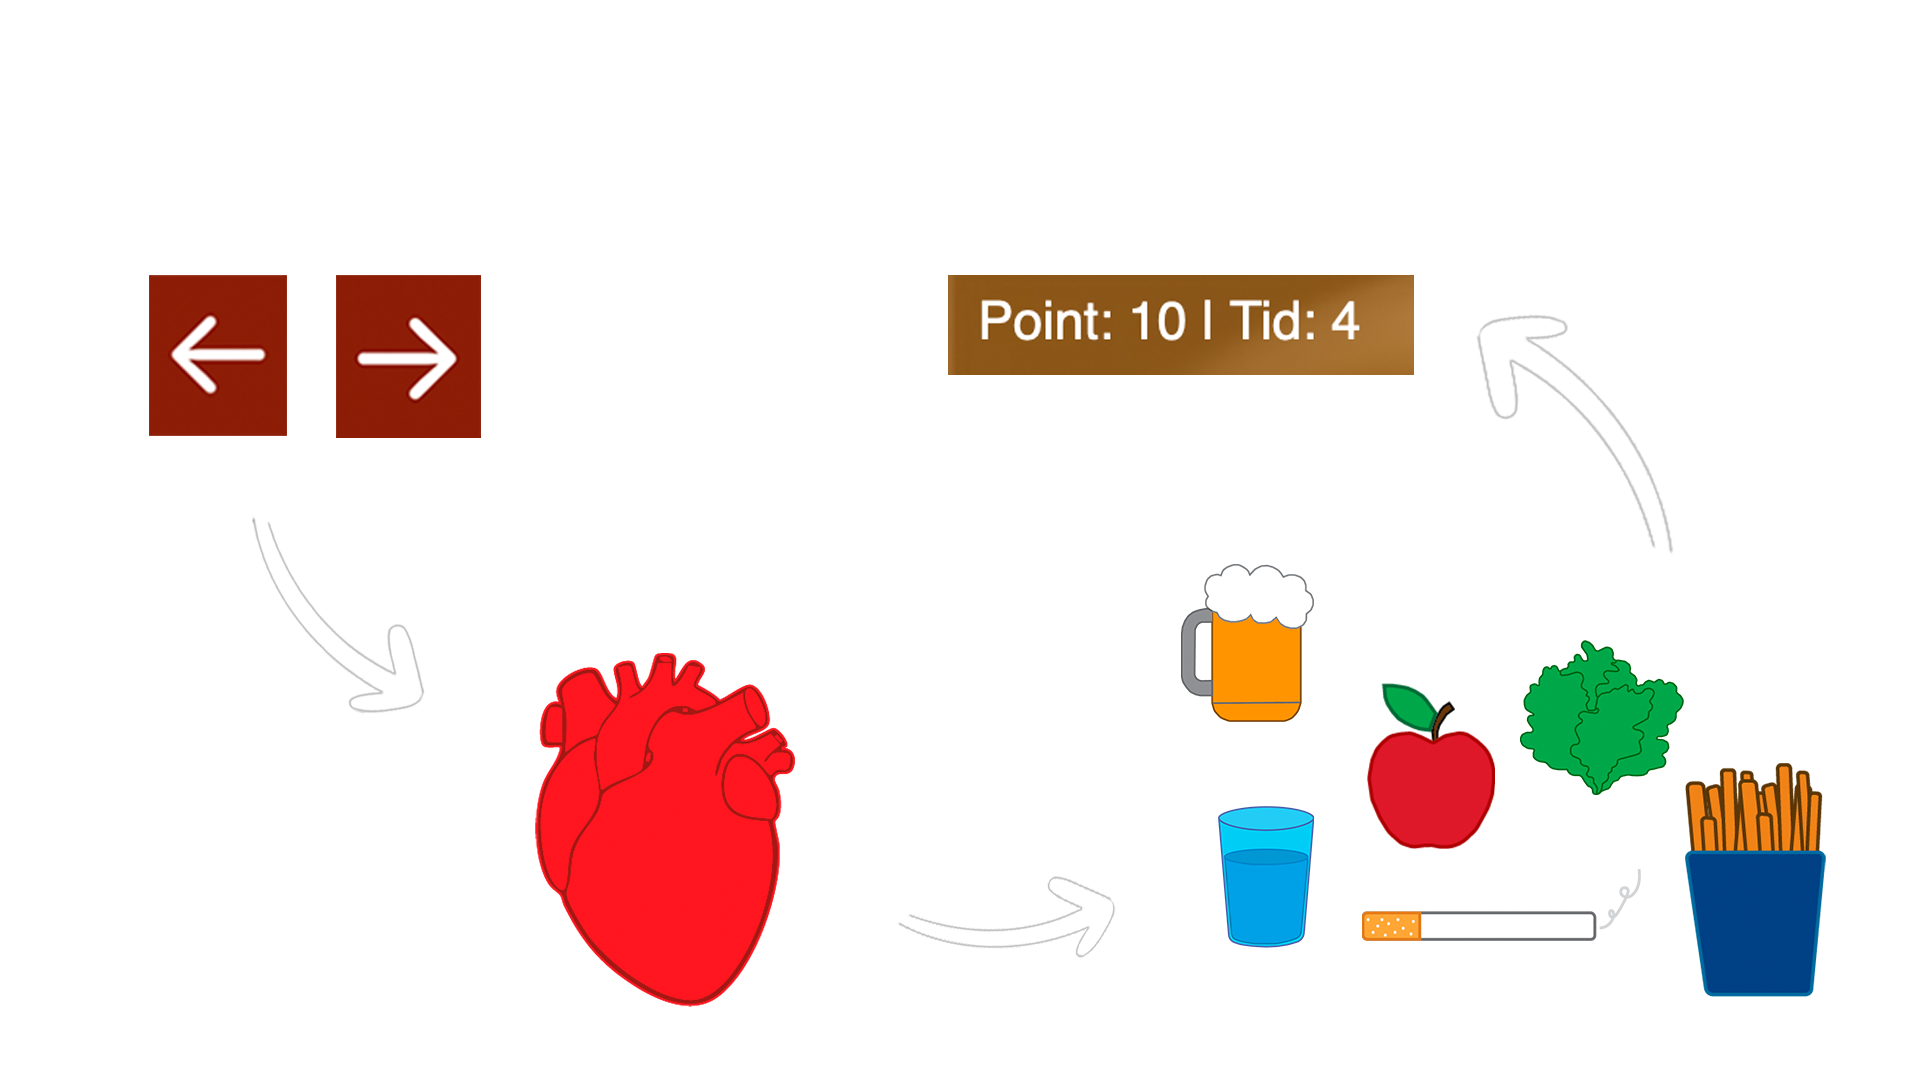
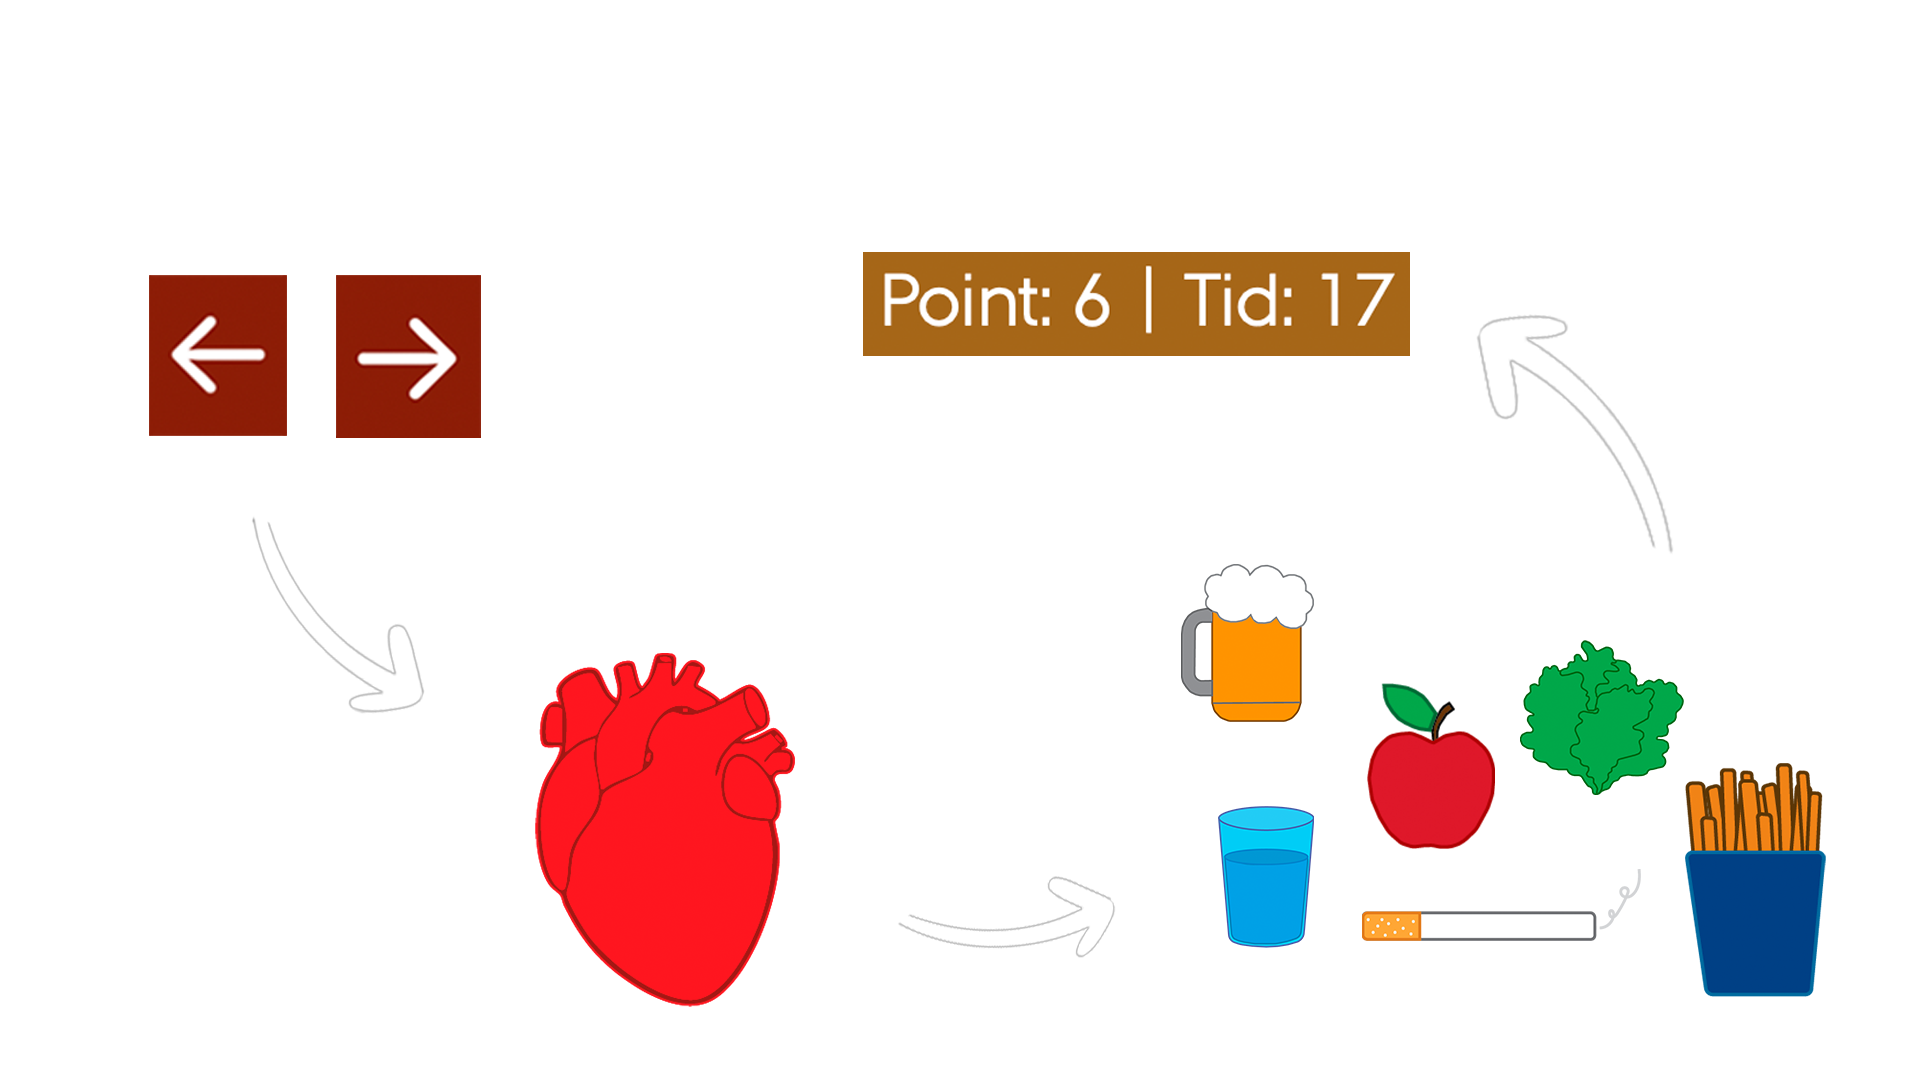
spil styles/infografik

Changed region(s): [[0.4375, 0.2139, 0.75, 0.3667]]

diff --git a/spil.css b/spil.css
@@ -41,9 +41,9 @@
   
   #scoreboard {
     position: absolute;
-    top: 10px;
-    left: 10px;
-    font-size: 18px;
+    top: 20px;
+    left: 20px;
+    font-size: 30px;
   }
 /* Overlay backdrop */
 #gameover {
